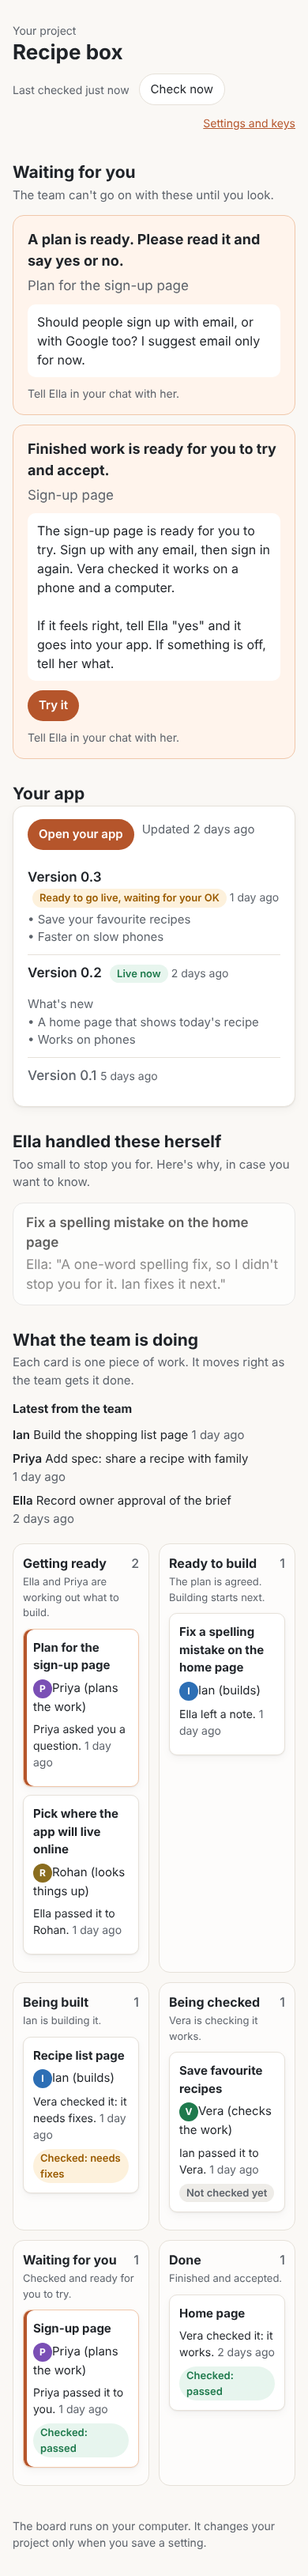
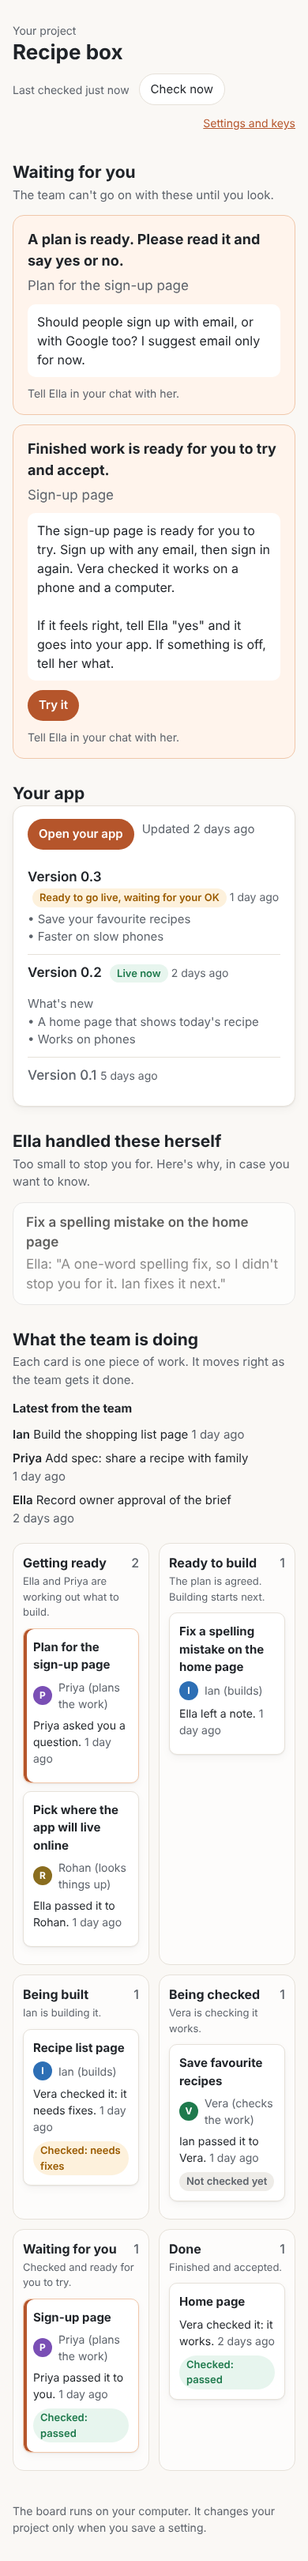
verification/32: round 2 PASS at 951c0ff (F1 fixed)
Claude-Session: https://claude.ai/code/session_0155vpoT2eonoP8cG2PdBpaG

diff --git a/verification/32/README.md b/verification/32/README.md
@@ -1,4 +1,25 @@
-# Evidence for #32, round 1: BLOCK
+# Evidence for #32
+
+## Round 2: PASS
+
+Reviewed revision `951c0ff37192537ceeb34e3f93efda47e4adf97d`. Since round 1 (evidence `21c3df1`) the only change is
+one line in `web/App.tsx`: the work card's holder row has class `who` again. `verification/32/` was unchanged
+between my commit and that head. F1's repro ran first and passes. Then, from a clean `npm ci` and build, everything
+ran again as a regression check:
+
+| Command | Head 951c0ff |
+|---|---|
+| `node verification/32/checks/f1_card_holder_style.mjs` | ok (class `who`, flex, 8px gap) |
+| `npx vitest run` | 7 files, 83 passed |
+| `npx tsc --noEmit` | exit 0 |
+| `npm run build` | ok |
+| `bash .github/team/run-checks.sh` | 35 run, ok (R1/R2 28/28, R1 fallback 34/34, R4 9/9, F1 ok, earlier tickets' 31 ok) |
+| `NODE_PATH=$(npm root -g) node verification/32/page.mjs` | 37 ok, 0 failed (card holder row: flex, 8px, 14px) |
+
+The changed line touches no new behaviour, so I added no new checks. The screenshots were taken again at this head.
+`f1-card-round2.png` shows the fixed card. The round 1 notes below still apply.
+
+## Round 1: BLOCK
 
 Reviewed revision `4557e3affd567227a0cc9299f0019fbef33f7e81` (PR #31) against base `5f6b2b6`. Rows R1-R5 and how
 each runs: `checks.md`. Node 22.23.4, no outbound network for the board (guard preloaded), fake GitHub on 127.0.0.1.
